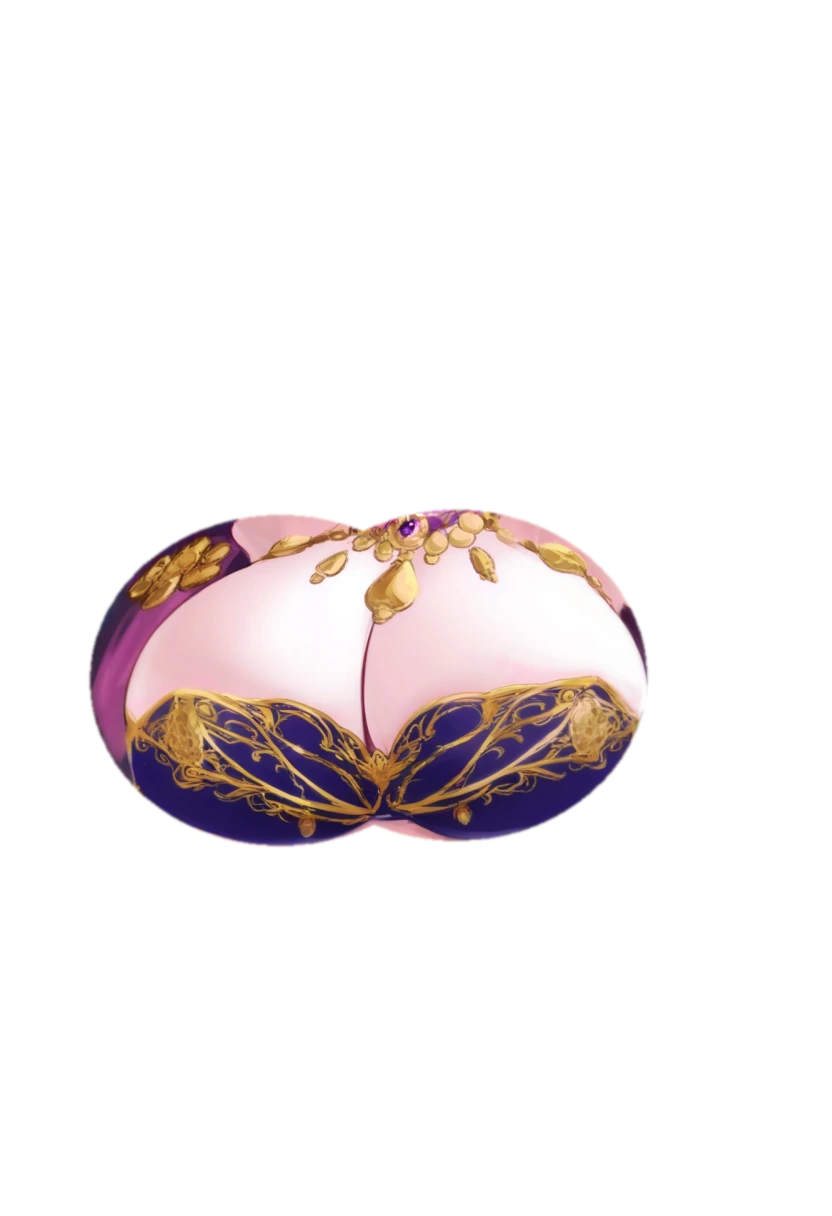
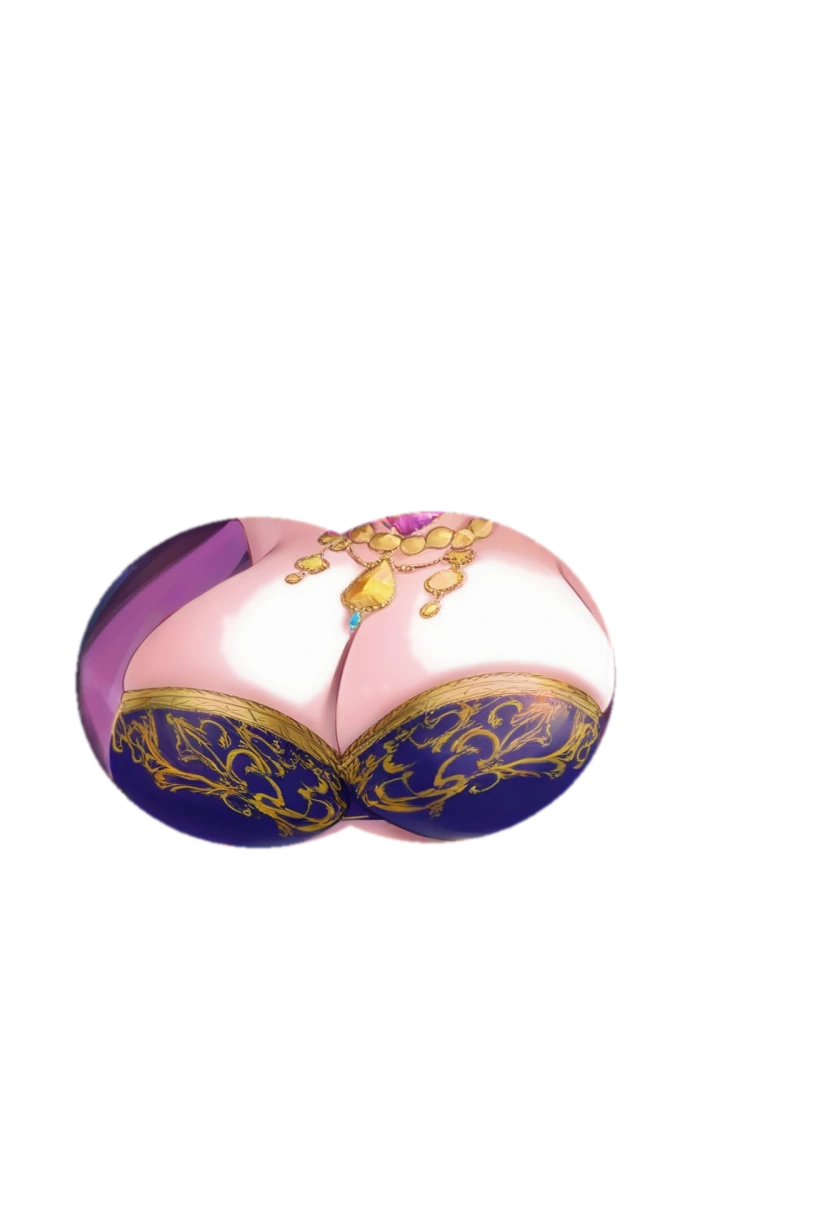
Diaochan v4: center chest on body midline
Claude-Session: https://claude.ai/code/session_017CQhY3FLdH51zJppLF11JD

Changed region(s): [[0.0938, 0.4062, 0.7812, 0.7188]]

diff --git a/game/public/js/layered.js b/game/public/js/layered.js
@@ -17,7 +17,7 @@
     // 貂蟬 v2（2026-11-19 開發用 Colab＋Illustrious-XL 自己生的，Jay 選圖）：只有胸部、平胸底層、閉眼三層
     diaochan_v4: {
       w: 832, h: 1216, link: 1,
-      art: [[0.3365, 0.5592, 0.2284, 0.1357], [0.5481, 0.5551, 0.2284, 0.1357]],   // v2 的臉＋舞姬裝，胸部單獨生成（2026-11-19：再放大一倍、膚色對齊肚子）
+      art: [[0.3101, 0.5609, 0.2188, 0.1357], [0.5192, 0.5567, 0.2188, 0.1357]],   // v2 的臉＋舞姬裝，胸部單獨生成（2026-11-19：放大一倍、膚色對齊肚子、置中到身體中線）
     },
     diaochan_v3: {
       w: 832, h: 1216,
@@ -106,7 +106,7 @@
       else { cc.globalCompositeOperation = "destination-in"; cc.drawImage(m, 0, 0); }
       tex = { base: mkTex(b), chest: mkTex(c), blink: mkTex(imgs.blink) }; if (imgs.acc) tex.acc = mkTex(imgs.acc); if (imgs.hair) tex.hair = mkTex(imgs.hair);
     }
-    names.forEach(function (n) { var im = new Image(); im.onload = function () { imgs[n] = im; if (--left === 0) compose(); }; im.src = base + (R.pre || id + "_") + n + ".webp?v=15"; });   // 改圖要換這個數字，不然手機會用到舊圖
+    names.forEach(function (n) { var im = new Image(); im.onload = function () { imgs[n] = im; if (--left === 0) compose(); }; im.src = base + (R.pre || id + "_") + n + ".webp?v=16"; });   // 改圖要換這個數字，不然手機會用到舊圖
 
     var P = { K: 38, C: 3.0, BREATH: 0.0035, BT: 3.8, LIFT: 0.016, MAX: 0.042, RIM: 0.28, amp: opt.amp == null ? 1 : opt.amp };   // MAX 是胸部中心的最大位移；邊緣只動 RIM 倍（約 0.28）
     var c = [{ x: 0, y: 0, vx: 0, vy: 0 }, { x: 0, y: 0, vx: 0, vy: 0 }], ear = [{ a: 0, v: 0 }, { a: 0, v: 0 }], hair = { x: 0, v: 0 };

diff --git a/game/public/tool/sunquan.html b/game/public/tool/sunquan.html
@@ -17,7 +17,7 @@ input[type=range]{flex:1}
 <div class="row">淡化<input id="fe" type="range" min="0" max="40" step="2" value="6"><span id="fv">6</span></div>
 <div class="row">邊緣<input id="rim" type="range" min="0" max="1" step="0.05" value="0.28"><span id="rv">0.28</span></div>
 <div class="row">幅度<input id="amp" type="range" min="0.3" max="1.3" step="0.1" value="1"><span id="av">1.0</span><button id="poke">晃一下</button></div></div></div>
-<script src="../js/layered.js?v=1119i"></script>
+<script src="../js/layered.js?v=1119j"></script>
 <script>
 var ID=new URLSearchParams(location.search).get("id")||"sunquan_ur";if(ID!=="sunquan_ur"){document.title="分層立繪試作";document.querySelector("#bar b").textContent=({diaochan_v2:"貂蟬",diaochan_v3:"貂蟬 v3",diaochan_v4:"貂蟬 v4"})[ID]+"｜分層立繪試作";document.querySelector("#bar .row").style.display="none";document.getElementById("stage").style.background="#1a1020"}
 var stage=document.getElementById("stage"),amp=document.getElementById("amp"),ol=null,L=null;

diff --git a/game/public/index.html b/game/public/index.html
@@ -56,7 +56,7 @@
 <script src="js/battle.js?v=1119a"></script>
 <script src="js/scene.js?v=1119a"></script>
 <script src="js/audio.js?v=1119a"></script>
-<script src="js/layered.js?v=1119i"></script>
+<script src="js/layered.js?v=1119j"></script>
 <script src="js/cardfx.js?v=1119a"></script>
 <script src="js/jiggle.js?v=1119a"></script>
 <script src="js/ui.js?v=1119a"></script>
